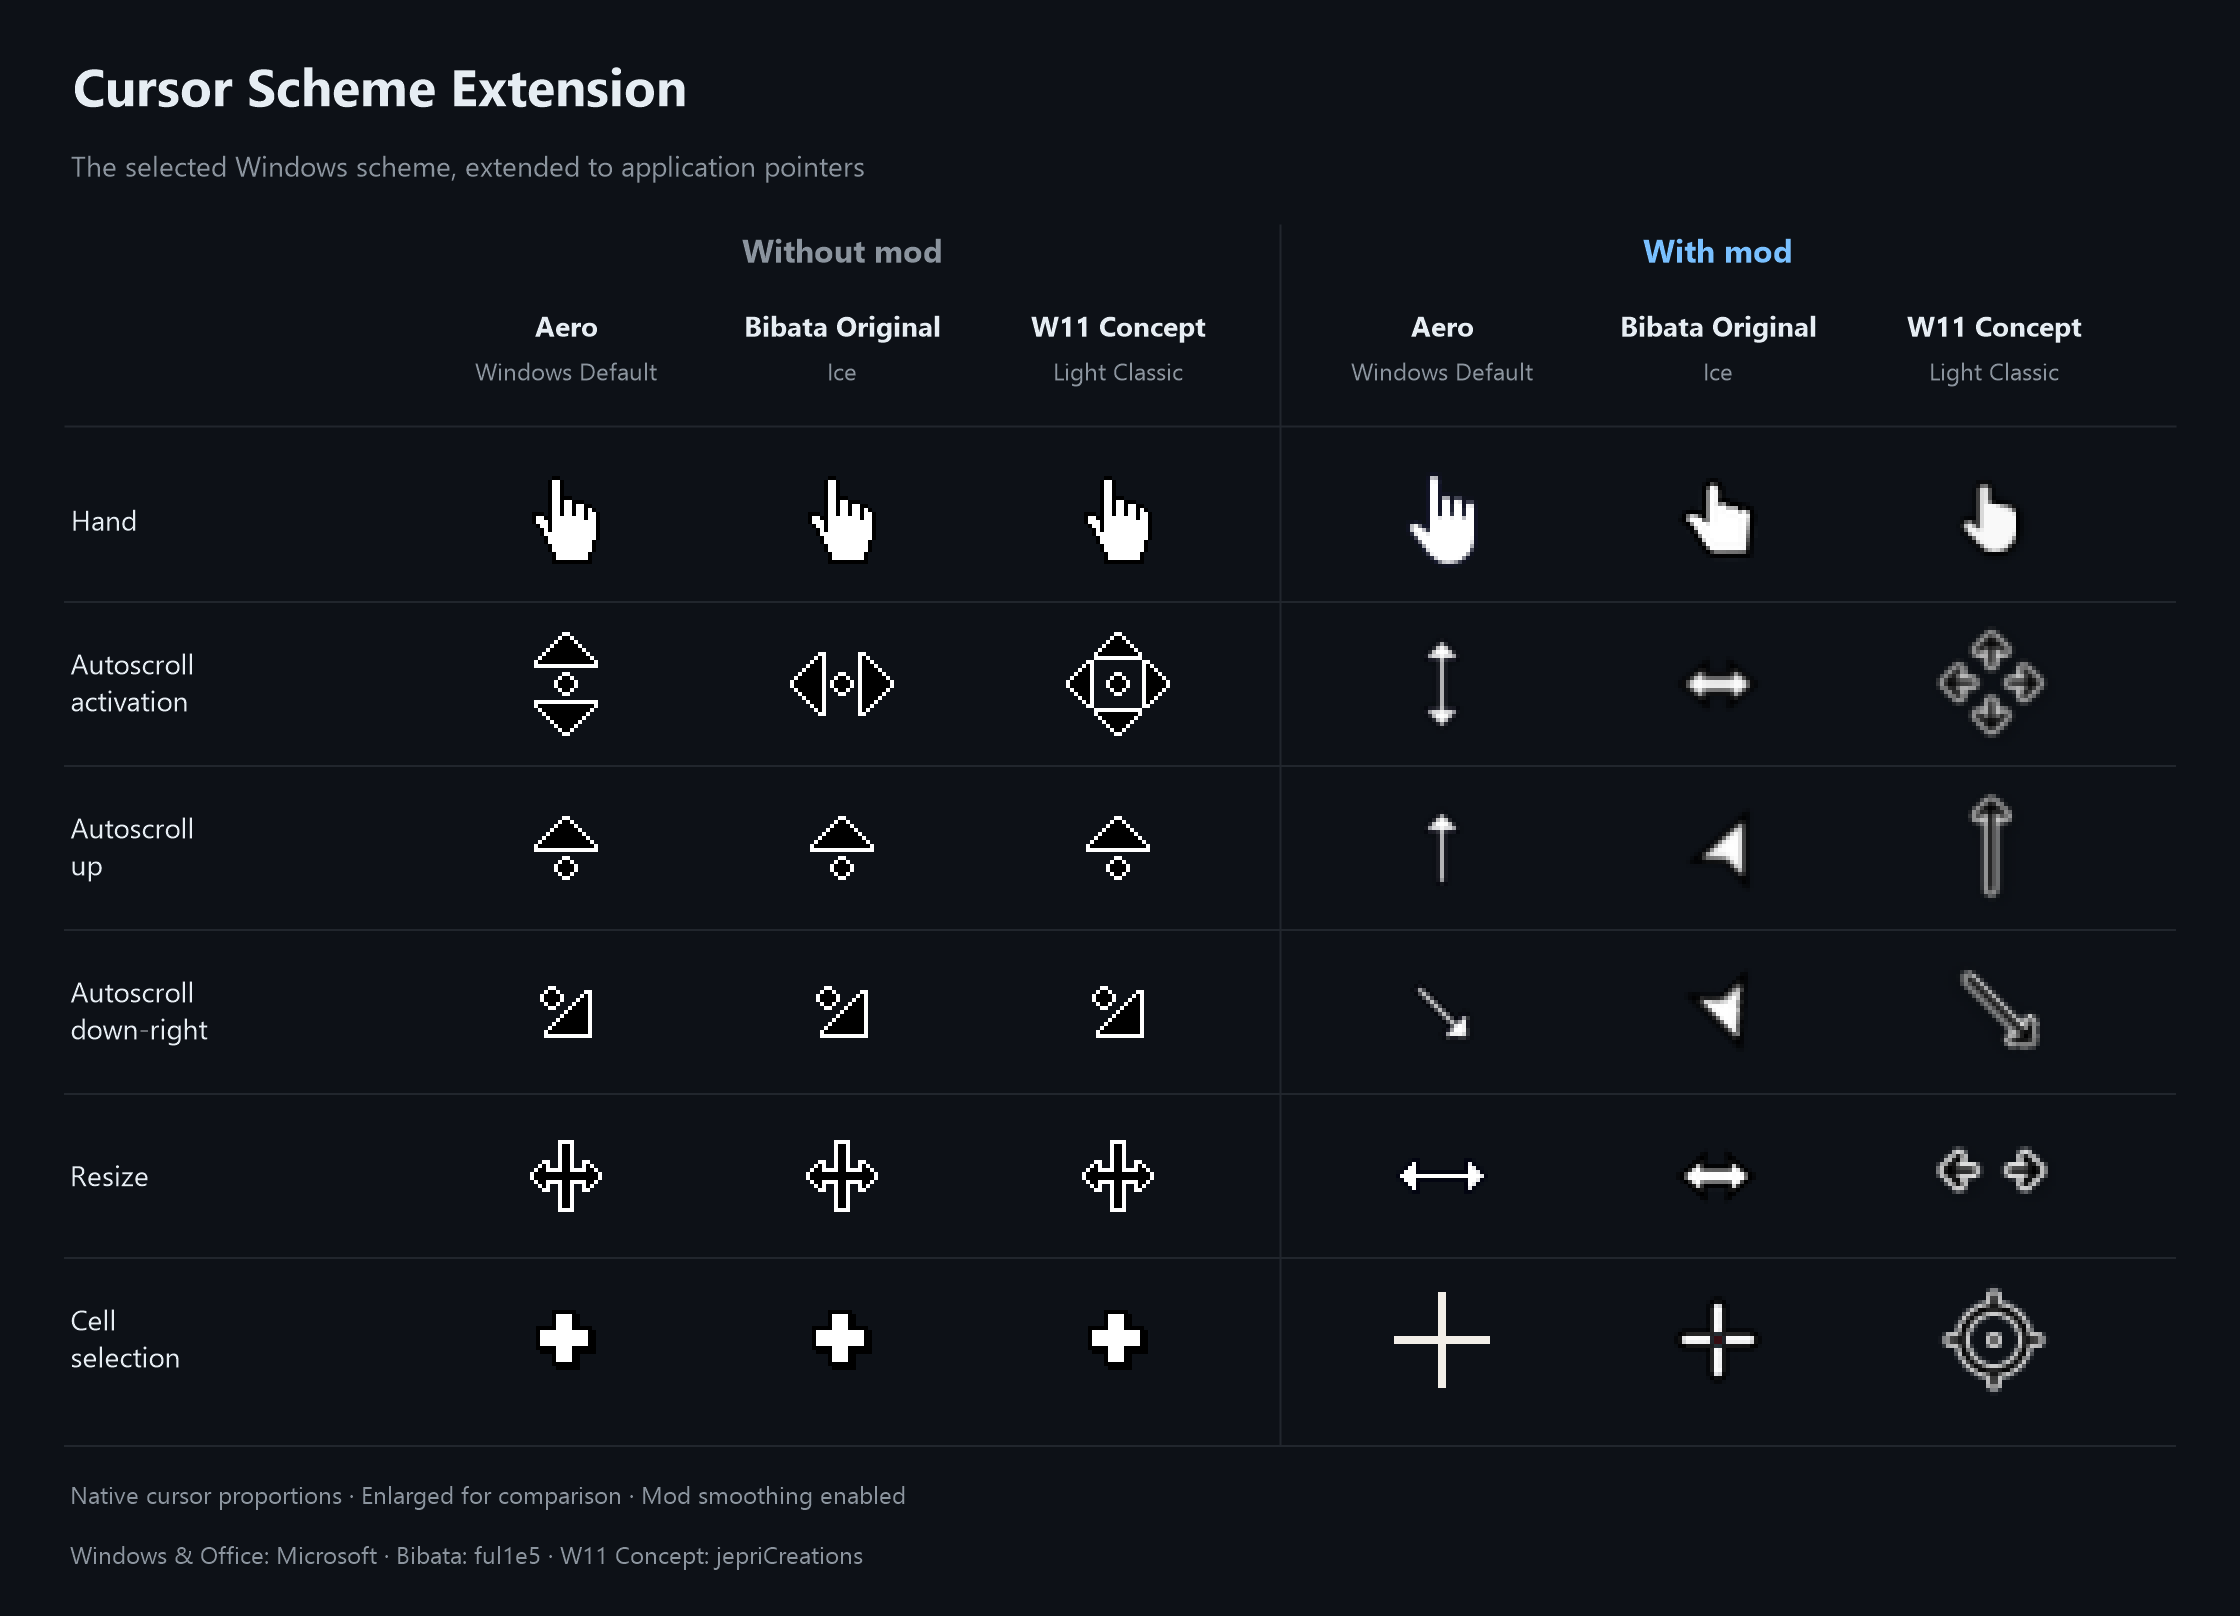
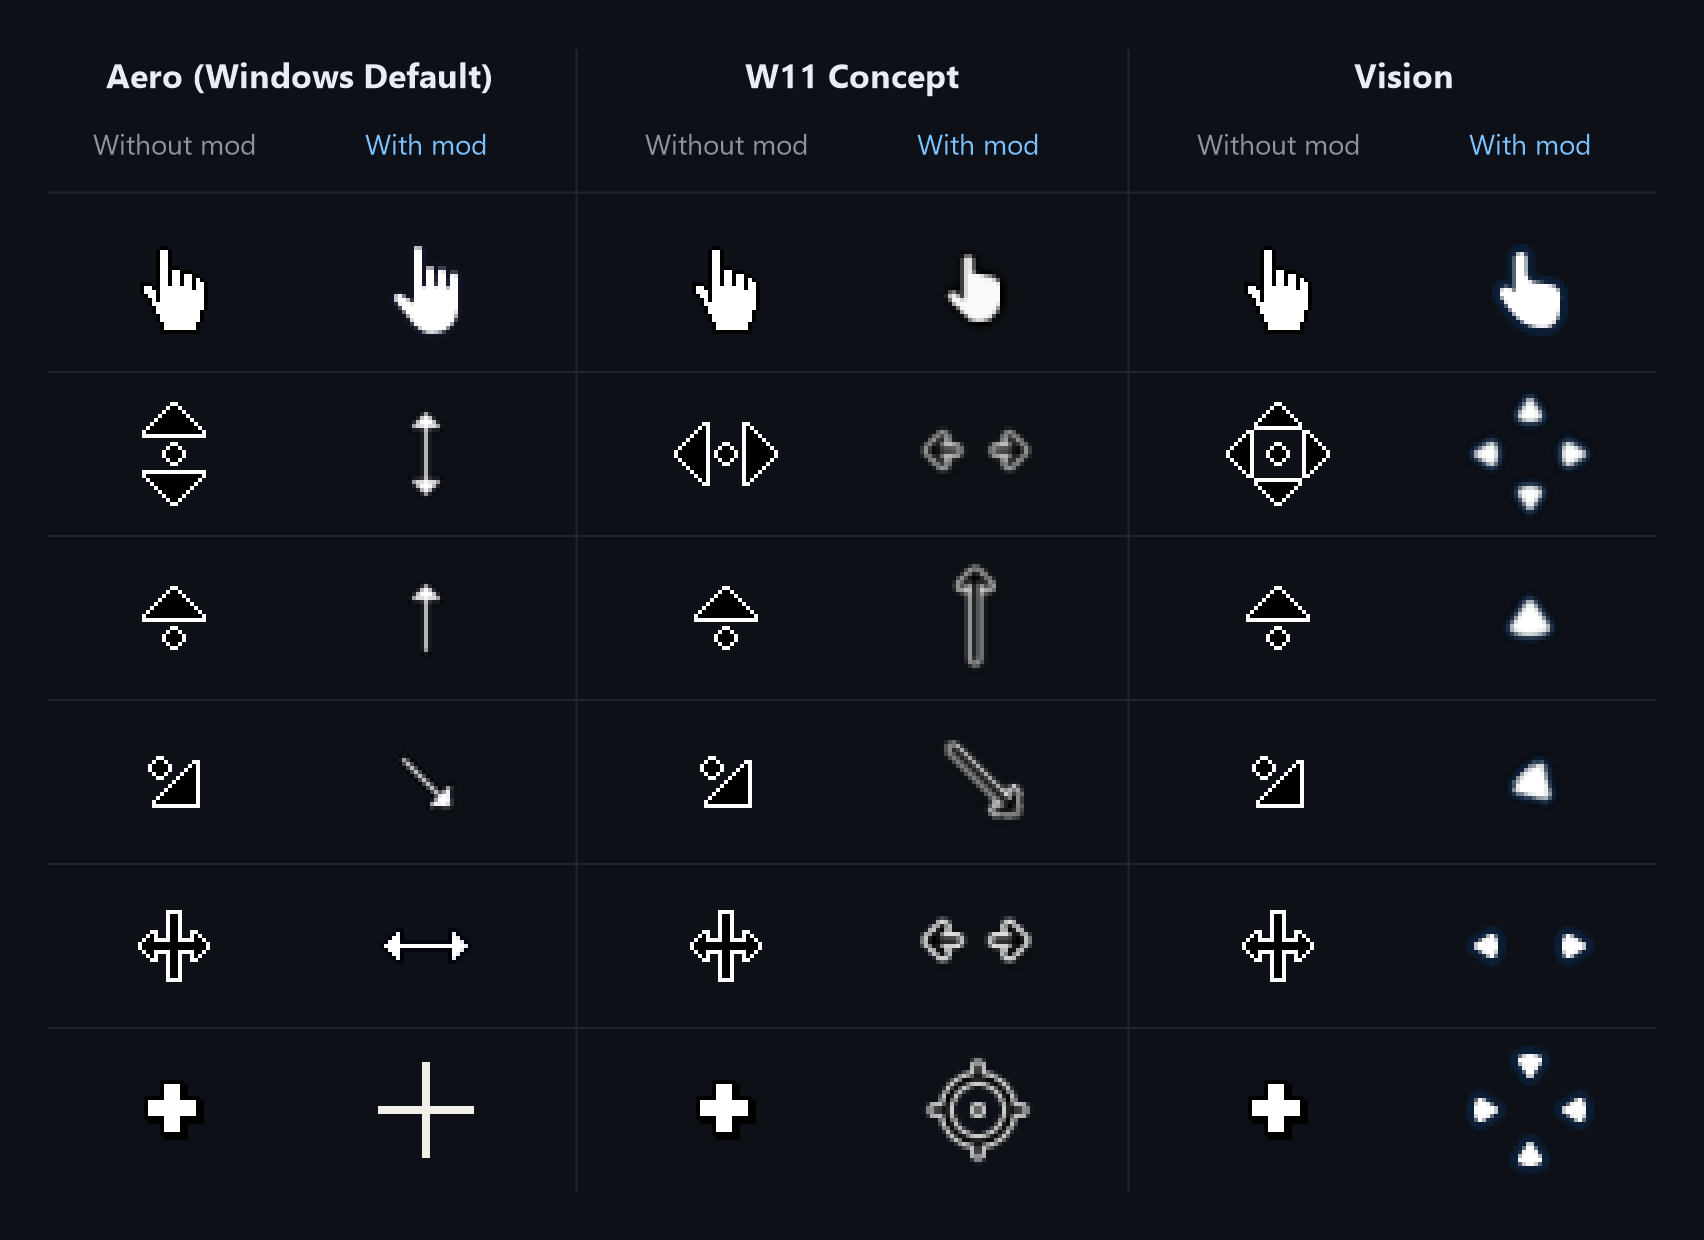
Refine cursor comparison layout and use Vision

diff --git a/Cursor_Scheme_Extension/Mod/cursor-scheme-extension.wh.cpp b/Cursor_Scheme_Extension/Mod/cursor-scheme-extension.wh.cpp
@@ -29,9 +29,9 @@ Cursor Scheme Extension replaces built-in application pointers with pointers fro
 
 The mod uses the scheme already selected in Windows and picks up changes to it automatically. Transformed pointers are created and cached in memory.
 
-![Selected application pointers without and with Cursor Scheme Extension, using Windows Aero, Bibata Original Ice, and W11 Concept Light Classic](https://raw.githubusercontent.com/CTravkin/DSN_Windhawk_Mods/main/Cursor_Scheme_Extension/Assets/Previews/Comparison.en.png)
+![Three pairs of application pointers without and with Cursor Scheme Extension: Windows Aero, W11 Concept, and Vision](https://raw.githubusercontent.com/CTravkin/DSN_Windhawk_Mods/main/Cursor_Scheme_Extension/Assets/Previews/Comparison.en.png)
 
-Cursor artwork: Windows and Office by Microsoft, [Bibata Original](https://github.com/ful1e5/Bibata_Cursor) by ful1e5, [W11 Concept](https://www.deviantart.com/jepricreations/art/Windows-11-Cursors-Concept-HD-v2-890672103) by jepriCreations. [Image sources and rendering](https://github.com/CTravkin/DSN_Windhawk_Mods/blob/main/Cursor_Scheme_Extension/Assets/Previews/CREDITS.md).
+Cursor artwork: Windows and Office by Microsoft, [W11 Concept](https://www.deviantart.com/jepricreations/art/Windows-11-Cursors-Concept-HD-v2-890672103) by jepriCreations, [Vision](https://www.deviantart.com/idarques/art/Vision-Cursor-911891424) by IDarques.
 
 ## Features
 

diff --git a/Cursor_Scheme_Extension/Tools/Extract-Comparison.cpp b/Cursor_Scheme_Extension/Tools/Extract-Comparison.cpp
@@ -98,7 +98,7 @@ BOOL CALLBACK OfficeResource(HMODULE module, PCWSTR, PWSTR name, LONG_PTR) {
 
 int wmain(int argc, wchar_t** argv) {
     try {
-        // output, Windows cursor directory, Bibata directory, W11 directory, Office executable
+        // output, Windows cursor directory, W11 directory, Vision directory, Office executable
         if (argc != 6) return 2;
         output = argv[1];
         std::filesystem::create_directories(output);
@@ -130,8 +130,8 @@ int wmain(int argc, wchar_t** argv) {
         struct Theme {const wchar_t* name; const wchar_t* folder; const wchar_t* prefix;};
         const std::array themes = {
             Theme{L"aero", argv[2], L"aero_"},
-            Theme{L"bibata", argv[3], L""},
-            Theme{L"w11", argv[4], L""}};
+            Theme{L"w11", argv[3], L""},
+            Theme{L"vision", argv[4], L""}};
         for (size_t i = 0; i < themes.size(); ++i) {
             const auto& theme = themes[i];
             auto role = [&](const wchar_t* file) {

diff --git a/Cursor_Scheme_Extension/README.md b/Cursor_Scheme_Extension/README.md
@@ -6,9 +6,9 @@ Cursor Scheme Extension replaces built-in application pointers with pointers fro
 
 The mod uses the scheme already selected in Windows and picks up changes to it automatically. Transformed pointers are created and cached in memory.
 
-![Selected application pointers without and with Cursor Scheme Extension, using Windows Aero, Bibata Original Ice, and W11 Concept Light Classic](Assets/Previews/Comparison.en.png)
+![Three pairs of application pointers without and with Cursor Scheme Extension: Windows Aero, W11 Concept, and Vision](Assets/Previews/Comparison.en.png)
 
-Cursor artwork: Windows and Office by Microsoft, [Bibata Original](https://github.com/ful1e5/Bibata_Cursor) by ful1e5, [W11 Concept](https://www.deviantart.com/jepricreations/art/Windows-11-Cursors-Concept-HD-v2-890672103) by jepriCreations. [Image sources and rendering](Assets/Previews/CREDITS.md).
+Cursor artwork: Windows and Office by Microsoft, [W11 Concept](https://www.deviantart.com/jepricreations/art/Windows-11-Cursors-Concept-HD-v2-890672103) by jepriCreations, [Vision](https://www.deviantart.com/idarques/art/Vision-Cursor-911891424) by IDarques.
 
 ## Features
 
